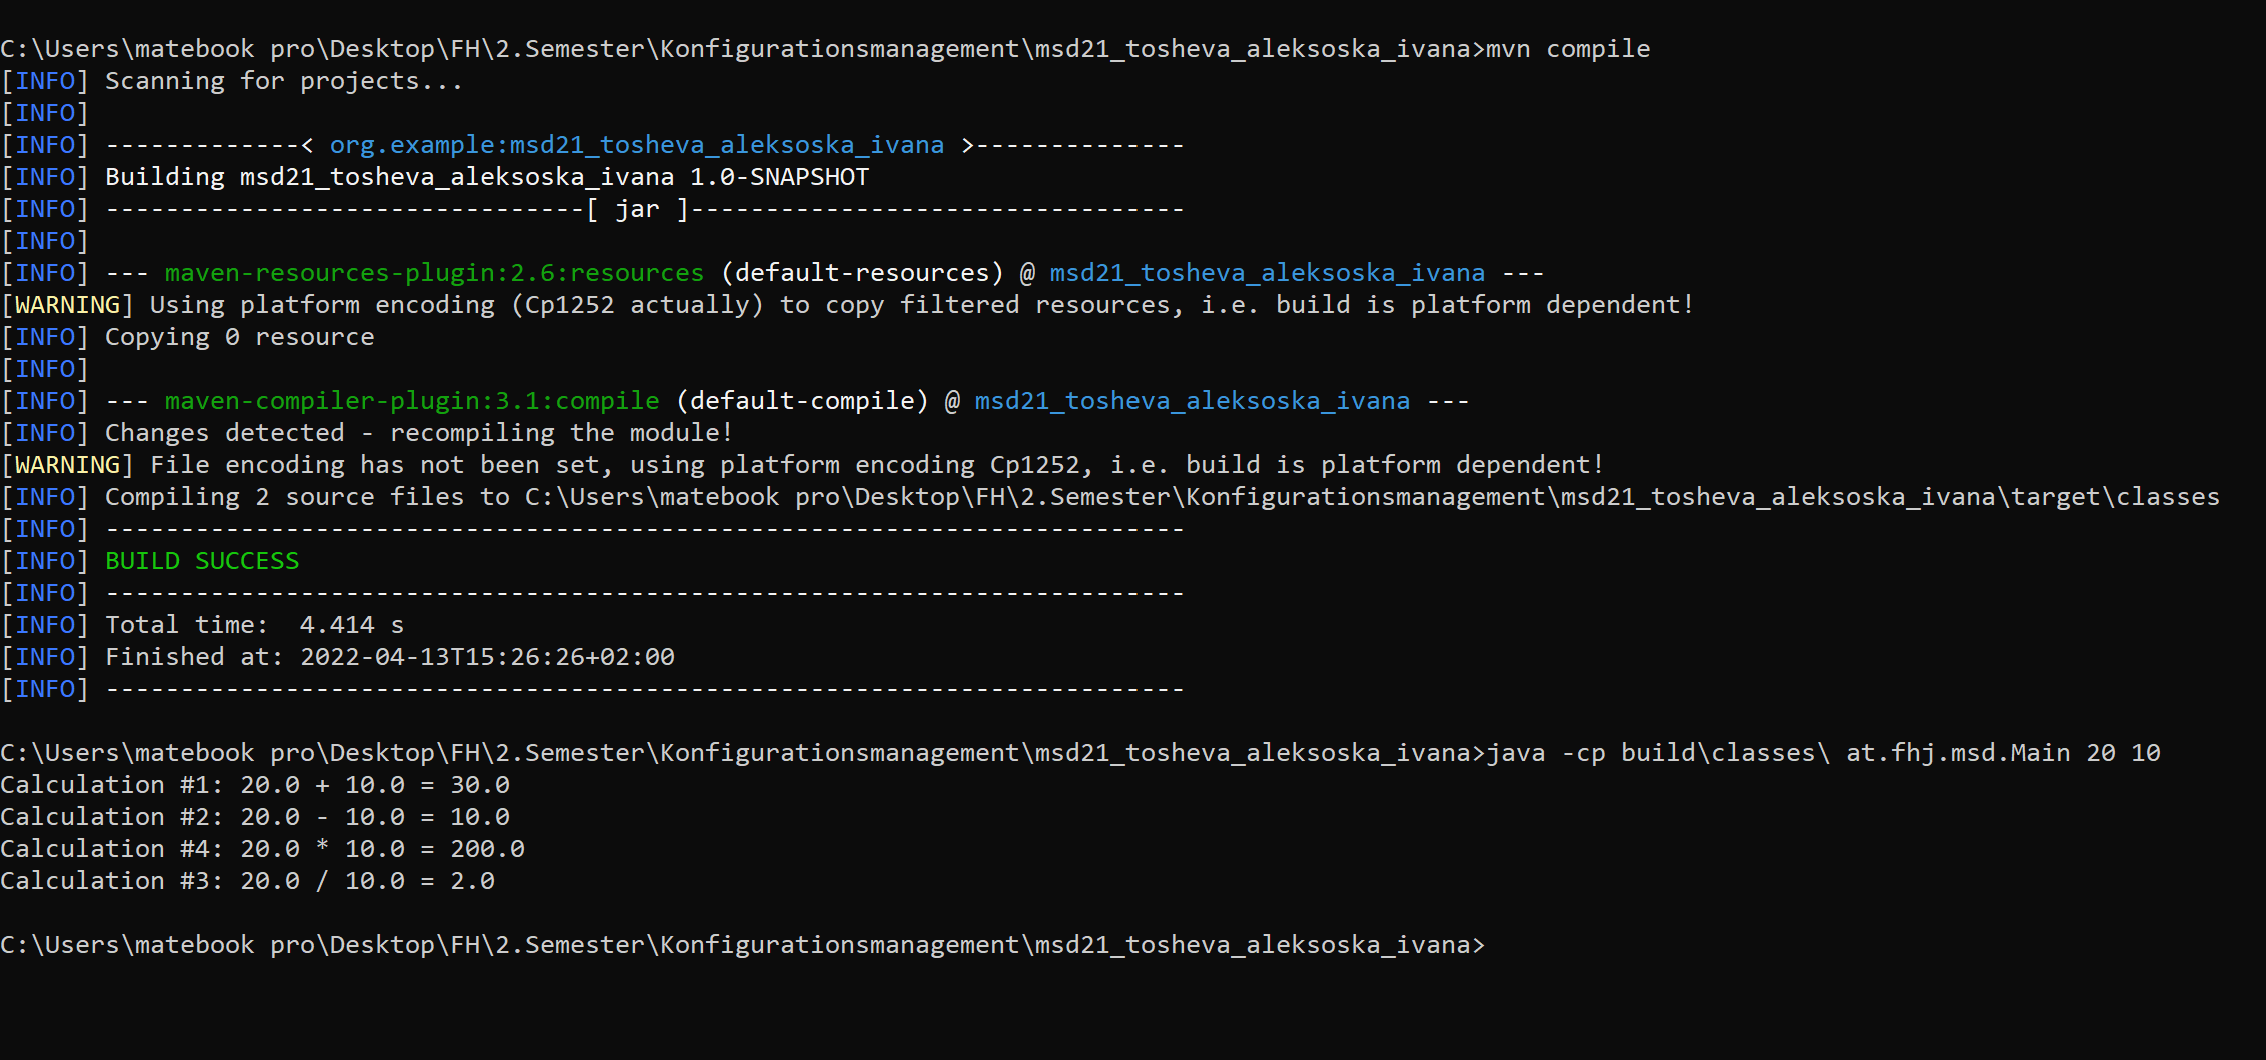
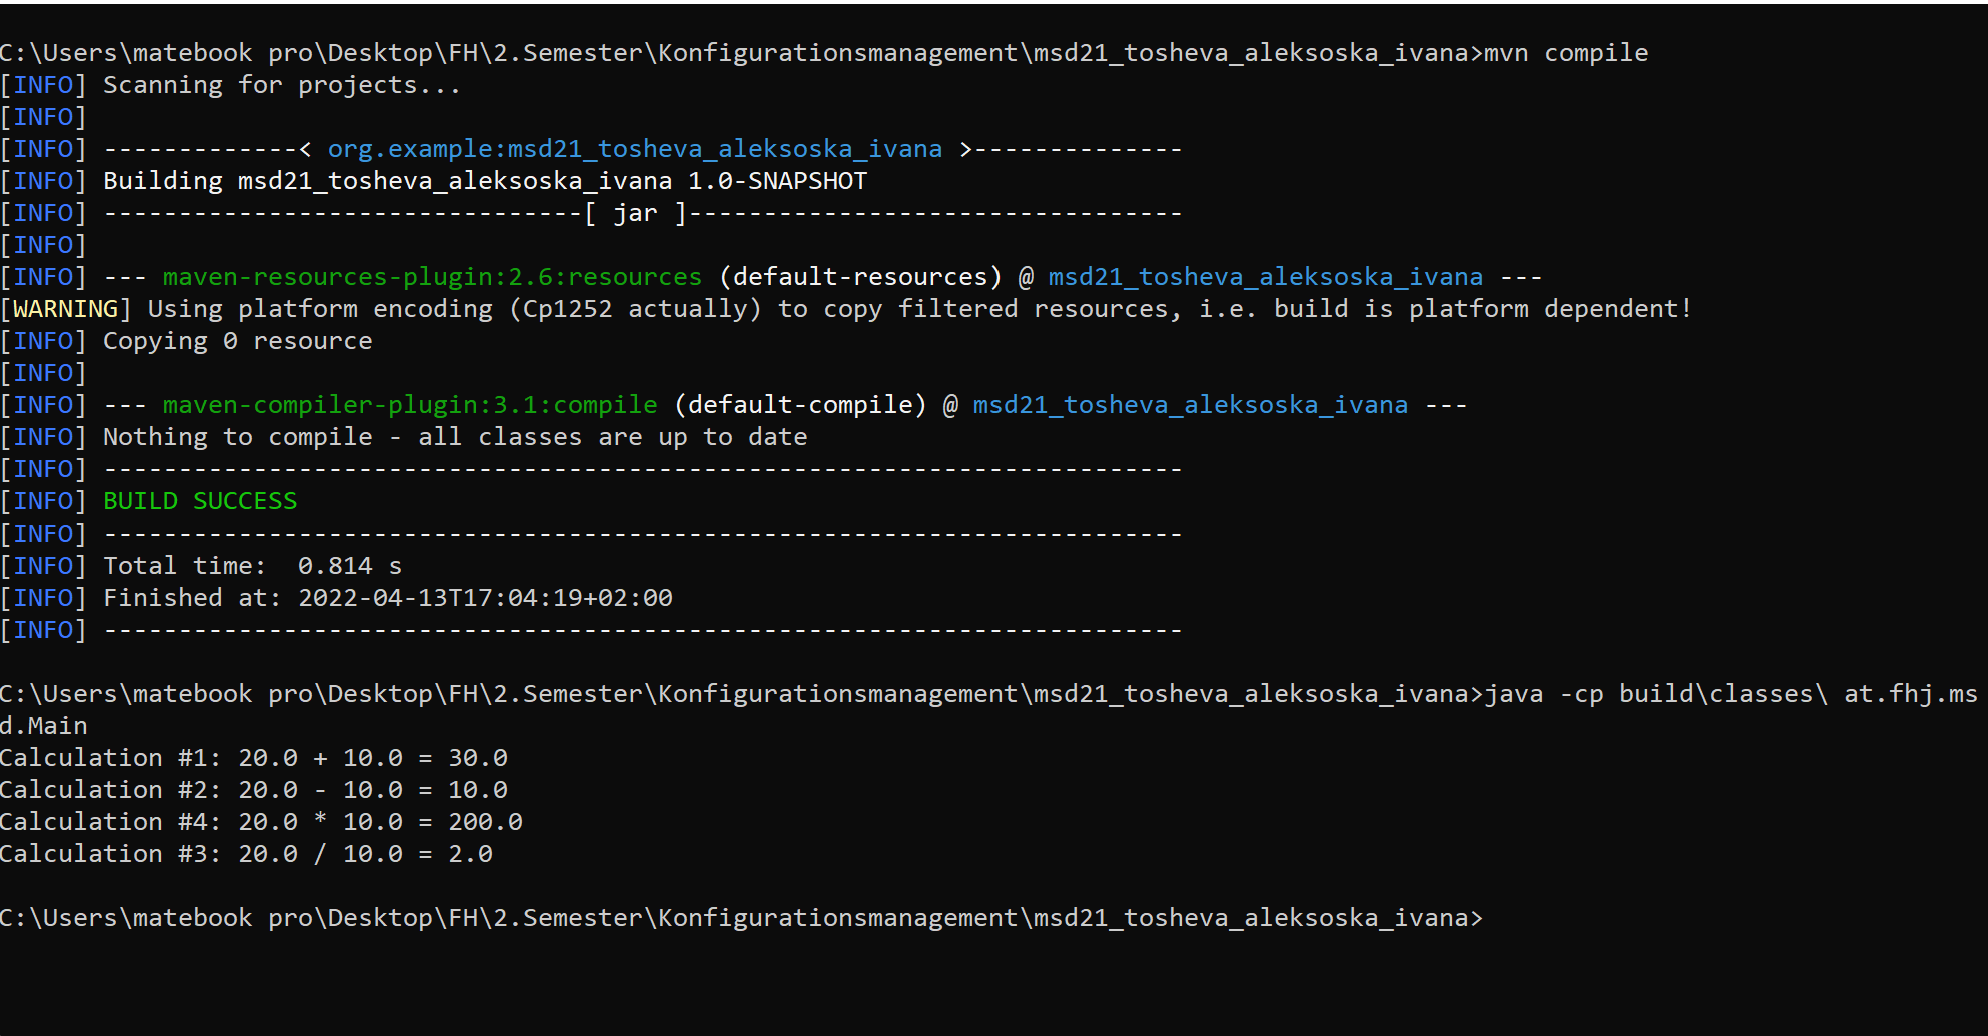
exercise3.md input and the .png, update of other files

Changed region(s): [[0.0, 0.0, 1.0, 0.834], [0.0, 0.8649, 0.7485, 0.9266]]

diff --git a/exercise3.md b/exercise3.md
@@ -1,0 +1,32 @@
+---
+title: Exercise 3 (Maven (Java) und Git)
+date: 27.03.2022
+---
+# Exercise 3 (Maven (Java) Project structure and Git)
+
+## Steps 
+
+  1. Installation of Maven and Java JDK 17  
+  2. Setting Java_HOME and path variables  
+  3. Check if everything is installed properly with 
+     * mvn -v
+     * java -version
+     * javac -version  
+  4. Create Maven Project in IntelliJ  
+     * add the .idea folder to the gitignore file
+     * create Java-Class Calculator in a package at.fhj.msd  
+     * create the methods of the calculator class  
+  5. Once the Project has been created and run for the first time, 
+  a *target* folder is created
+     * ![preview](target.png)
+     * the _target_ folder is the directory in which the Maven generated output will be saved.
+     * The target directory is created by Maven. 
+     * It contains all the compiled classes, JAR files etc.
+  6. Enter 
+     > mvn compile
+      * then by entering
+     > java -cp build\classes\ at.fhj.msd.Main
+     the program is ran in the terminal  
+     ![preview of mvn compile](compile_runMain.png)
+    
+     

diff --git a/exercise2.md b/exercise2.md
@@ -28,6 +28,8 @@ date: 27.03.2022
 
  _git pull_ - fetches the files from the online repository and updates the local repository.  
 
+ ![preview](git_diff_pull_push.png)
+
  _git push_ - sends the commits and pushes updates to the online repository.  
 
- ![preview](git_diff_pull_push.png)
+ ![preview](git_push.png)

diff --git a/README.md b/README.md
@@ -34,6 +34,7 @@ After all combinations are generated the program ends.
 
 You can see details of the project [here](exercise1.md)  
 The details of the second exercise are [here](exercise2.md)
+To view the details of the third exercise click [here](exercise3.md) 
 
 ### Contribution
 
